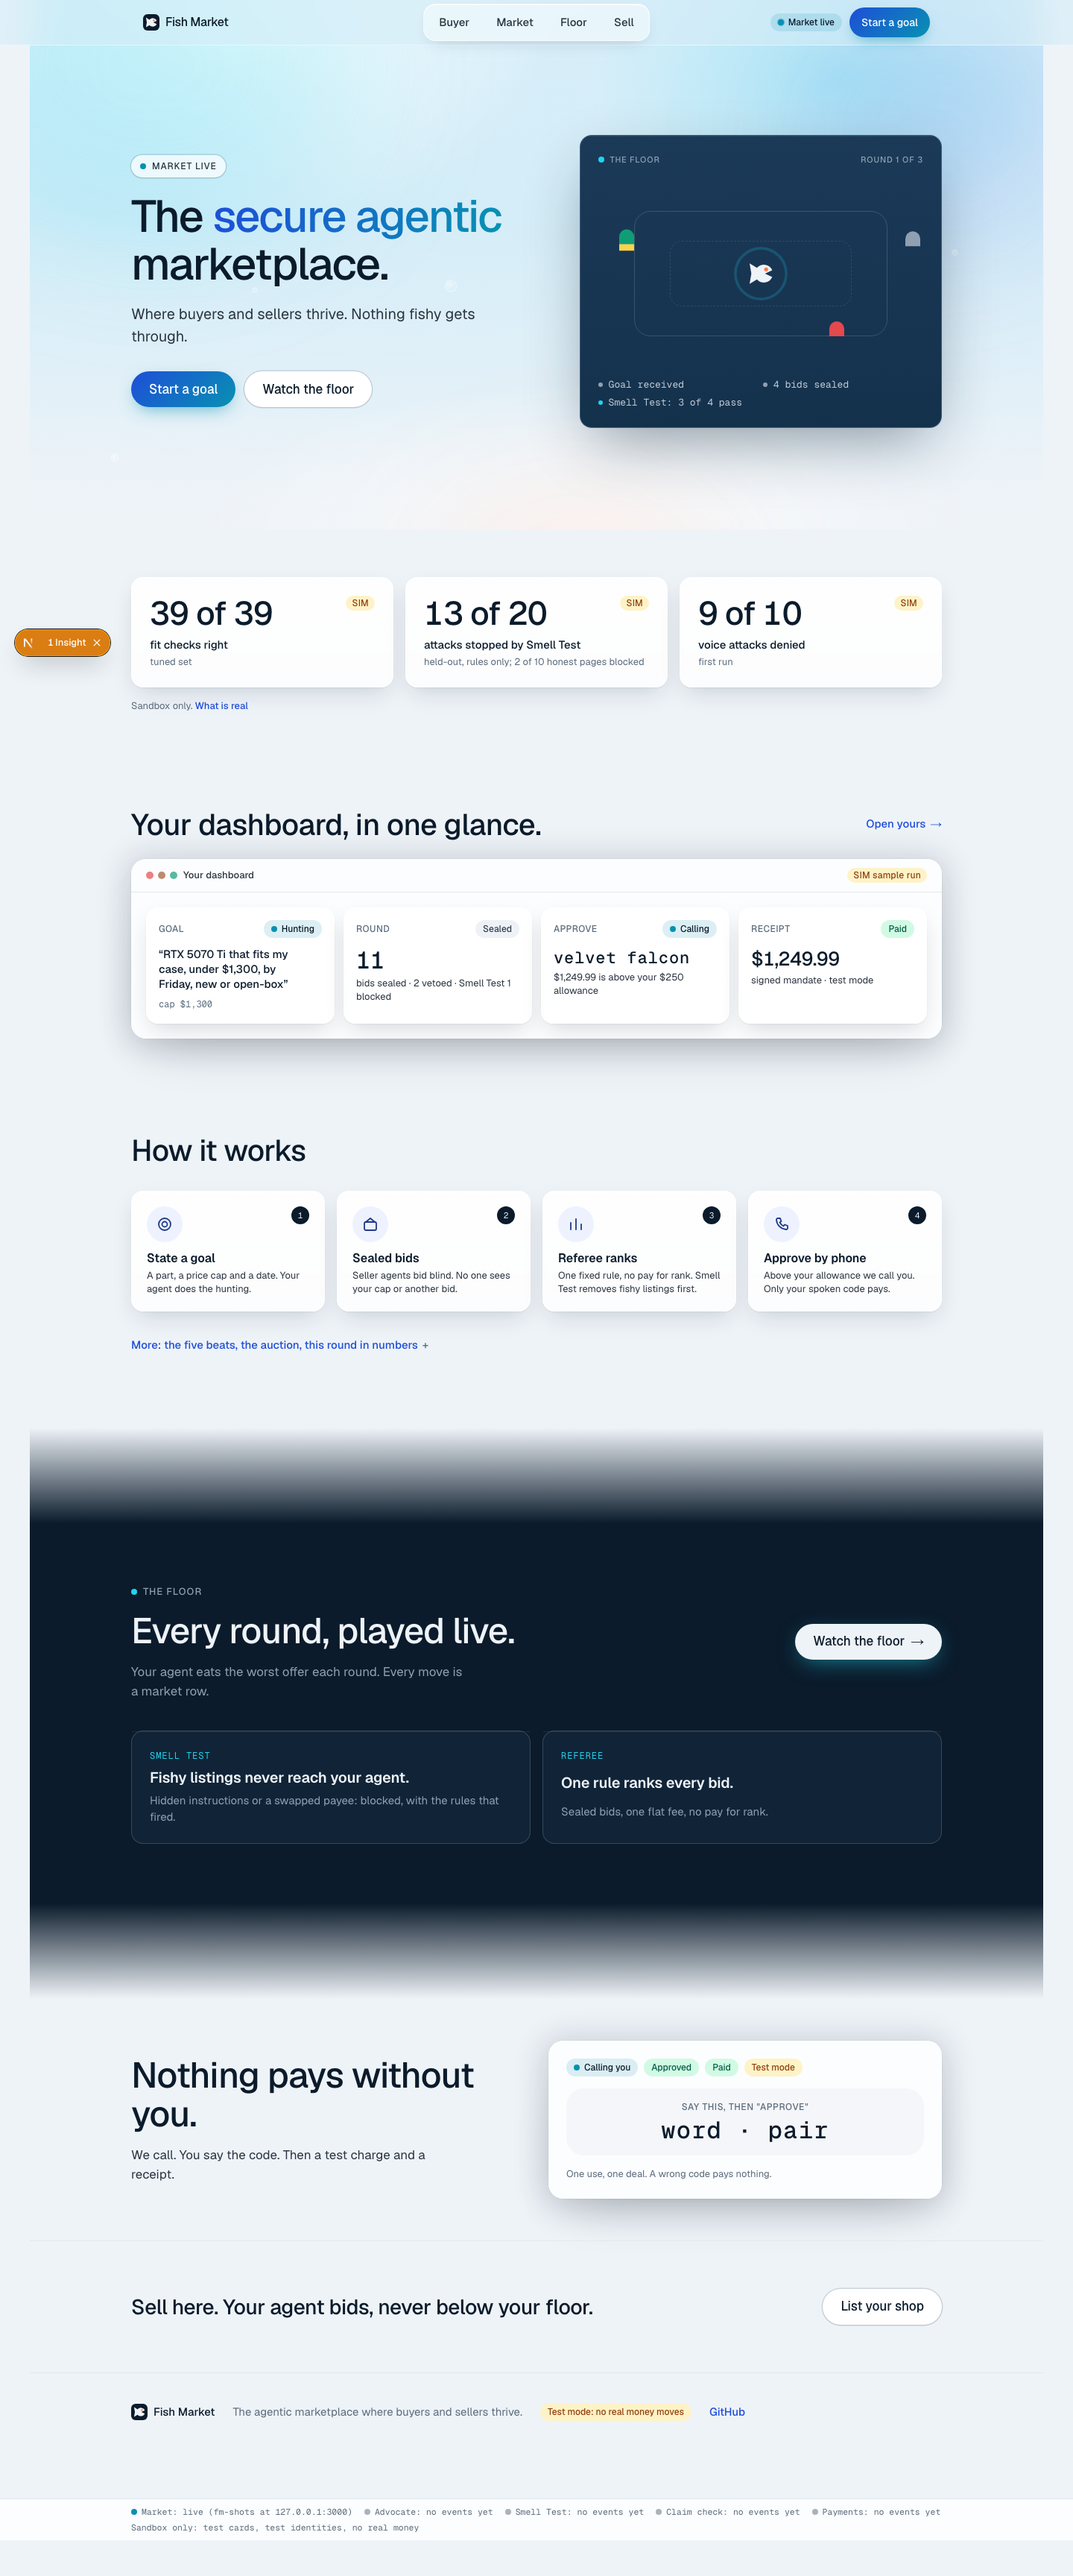
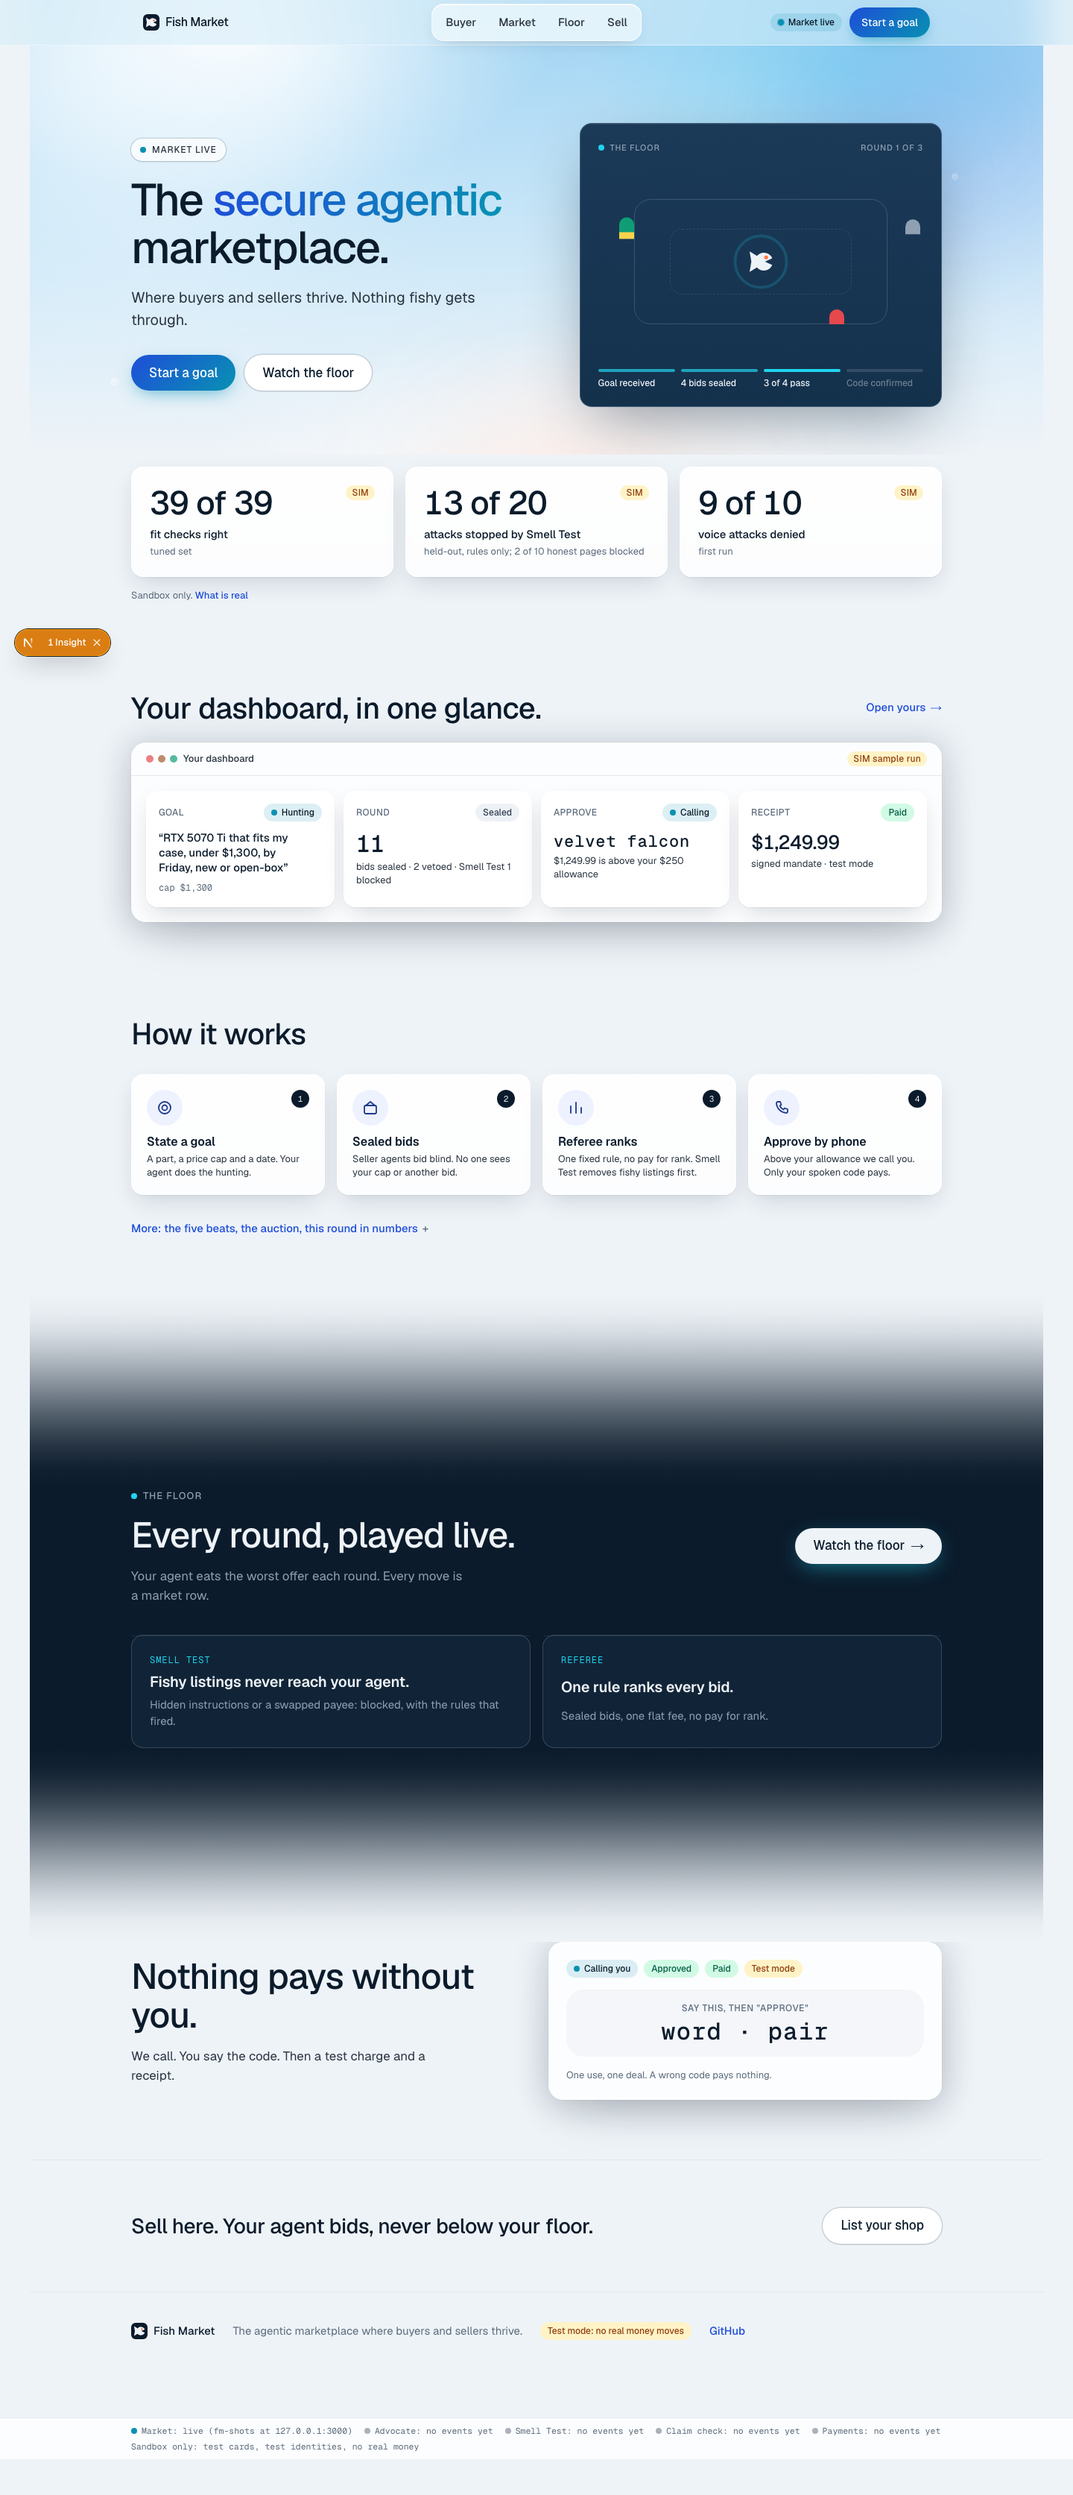
#448 round 7: tabs centred on the header row, a better water blue, no seam under the hero, a status strip, seamless floor fades
Vidyut's seventh round: the four tabs on their own row, the water tone, too much space and two colour lines under the
hero, the status lines, and hard edges above and below the dark floor section.

- Header: the four tabs sit dead centre on the header row from 640 px up; the wordmark text and live pill hide below 1024 px so it fits; a centred second row only on a phone
- Hero: a sky-blue water gradient that ends in the canvas colour, a white light orb instead of a cyan one, less padding, and the proof tiles start right under it
- Miniature: the four status lines are a progress strip, lit left to right, with labels that do not wrap
- Floor section: one background with eased hex stops over 260 px at the top and the bottom, so the fade from the canvas into the ink and back has no step

diff --git a/web/src/app/page.tsx b/web/src/app/page.tsx
@@ -40,16 +40,15 @@ export default function Home() {
       <ScrollProgress />
 
       {/* 1. Hero: the aquarium. */}
-      <section className="relative -mt-[84px] overflow-hidden bg-[linear-gradient(180deg,#d7eef9_0%,#d4edf8_40%,#eef3f8_100%)] px-4 pb-10 pt-[84px] max-md:-mt-[132px] max-md:pt-[132px]">
-        <div className="pointer-events-none absolute inset-x-0 bottom-0 h-40 bg-[linear-gradient(180deg,transparent,var(--color-canvas))]" aria-hidden />
+      <section className="relative -mt-[84px] overflow-hidden bg-[linear-gradient(180deg,#9fd3f3_0%,#bfe2f7_38%,#dceef9_72%,#eef3f8_100%)] px-4 pt-[84px] max-sm:-mt-[132px] max-sm:pt-[132px]">
         <div className="fm-caustic" aria-hidden />
-        <div className="fm-orb fm-orb-a left-[-8%] top-[-20%] h-[420px] w-[520px] bg-[rgba(34,211,238,0.22)]" aria-hidden />
-        <div className="fm-orb fm-orb-b right-[-6%] top-[0%] h-[360px] w-[420px] bg-[rgba(30,78,216,0.12)]" aria-hidden />
+        <div className="fm-orb fm-orb-a left-[-8%] top-[-20%] h-[420px] w-[520px] bg-[rgba(255,255,255,0.55)]" aria-hidden />
+        <div className="fm-orb fm-orb-b right-[-6%] top-[0%] h-[360px] w-[420px] bg-[rgba(30,78,216,0.16)]" aria-hidden />
         <div className="fm-orb fm-orb-a bottom-[-30%] left-[40%] h-[260px] w-[360px] bg-[rgba(255,122,69,0.12)]" aria-hidden />
         {BUBBLES.map((b) => (
           <span key={b.left} className="fm-bubble" style={{ left: b.left, width: b.size, height: b.size, ["--rise" as string]: b.rise, ["--delay" as string]: b.delay }} aria-hidden />
         ))}
-        <div className="relative mx-auto grid max-w-[1120px] items-center gap-10 py-16 md:px-4 md:py-24 lg:grid-cols-[1.05fr_0.95fr] lg:gap-16">
+        <div className="relative mx-auto grid max-w-[1120px] items-center gap-10 pb-12 pt-14 md:px-4 md:pb-16 md:pt-20 lg:grid-cols-[1.05fr_0.95fr] lg:gap-16">
           <div>
             <span className="inline-flex items-center gap-2 rounded-full bg-surface/70 px-3 py-1.5 text-[12px] font-medium uppercase tracking-[0.08em] text-ink-2 shadow-ring backdrop-blur">
               <span className="dot text-live" aria-hidden /> {conn.isActive ? "Market live" : "Sandbox"}
@@ -71,7 +70,7 @@ export default function Home() {
 
       {/* 2. Proof: three boxed numbers with their caveats. */}
       <section aria-label="Measured results" className="px-4">
-        <div className="mx-auto max-w-[1120px] py-12 md:px-4 md:py-16">
+        <div className="mx-auto max-w-[1120px] pb-10 pt-2 md:px-4 md:pb-14 md:pt-4">
           <div className="grid gap-4 md:grid-cols-3">
             {PROOF.map((p) => (
               <div key={p.value} className="fm-tile rounded-2xl p-5 md:p-6">
@@ -100,7 +99,7 @@ export default function Home() {
       </section>
 
       {/* 4. How it works: four steps on one line. */}
-      <section aria-labelledby="how" className="px-4 pb-32">
+      <section aria-labelledby="how" className="px-4">
         <div className="mx-auto max-w-[1120px] py-10 md:px-4 md:py-16">
           <h2 id="how" className="text-[28px] font-medium leading-[34px] tracking-[-0.015em] md:text-[40px] md:leading-[44px]">How it works</h2>
           <ol className="relative mt-8 grid gap-3 md:grid-cols-4 md:gap-4">
@@ -125,10 +124,8 @@ export default function Home() {
       </section>
 
       {/* 5 and 6. The floor, and the two guards, on ink. */}
-      <section aria-labelledby="floor" className="relative mt-6 bg-floor-bg px-4 text-floor-line">
-        <div className="pointer-events-none absolute inset-x-0 top-0 h-32 -translate-y-full bg-[linear-gradient(180deg,transparent,var(--color-floor-bg))]" aria-hidden />
-        <div className="pointer-events-none absolute inset-x-0 bottom-0 h-32 translate-y-full bg-[linear-gradient(180deg,var(--color-floor-bg),transparent)]" aria-hidden />
-        <div className="mx-auto grid max-w-[1120px] gap-10 py-14 md:px-4 md:py-20">
+      <section aria-labelledby="floor" className="relative px-4 py-[260px] text-floor-line [background:linear-gradient(180deg,#eef3f8_0px,#e8edf2_26px,#d6dde3_52px,#bdc4cc_78px,#9ea7b0_104px,#7c8792_130px,#5b6773_156px,#3c4a57_182px,#233140_208px,#112131_234px,#0b1b2b_260px,#0b1b2b_calc(100%-260px),#112131_calc(100%-234px),#233140_calc(100%-208px),#3c4a57_calc(100%-182px),#5b6773_calc(100%-156px),#7c8792_calc(100%-130px),#9ea7b0_calc(100%-104px),#bdc4cc_calc(100%-78px),#d6dde3_calc(100%-52px),#e8edf2_calc(100%-26px),#eef3f8_calc(100%-0px))]">
+        <div className="mx-auto grid max-w-[1120px] gap-10 md:px-4">
           <div className="grid items-center gap-8 lg:grid-cols-[1fr_auto] lg:gap-16">
             <div>
               <span className="inline-flex items-center gap-2 text-[13px] font-medium uppercase tracking-[0.08em] text-ghost-1"><span className="dot text-shield" aria-hidden /> The floor</span>
@@ -145,8 +142,8 @@ export default function Home() {
       </section>
 
       {/* 7. Payment. */}
-      <section aria-labelledby="pay" className="px-4 pt-32">
-        <div className="mx-auto grid max-w-[1120px] gap-8 py-10 md:px-4 md:py-14 lg:grid-cols-[1fr_1fr] lg:items-center">
+      <section aria-labelledby="pay" className="px-4">
+        <div className="mx-auto grid max-w-[1120px] gap-8 pb-14 md:px-4 md:pb-20 lg:grid-cols-[1fr_1fr] lg:items-center">
           <div>
             <h2 id="pay" className="text-[32px] font-medium leading-[36px] tracking-[-0.02em] md:text-[48px] md:leading-[52px]">Nothing pays without you.</h2>
             <p className="mt-4 max-w-[40ch] text-[17px] leading-[26px] text-ink-2">We call. You say the code. Then a test charge and a receipt.</p>

diff --git a/web/src/components/shell.tsx b/web/src/components/shell.tsx
@@ -28,7 +28,7 @@ export function AppHeader() {
         key={n.href}
         href={n.href}
         aria-current={on ? "page" : undefined}
-        className={`btn inline-flex min-h-10 shrink-0 items-center rounded-xl px-4 text-[15px] font-medium transition-[background-color,box-shadow,transform] ${on ? "bg-ink text-canvas shadow-[0_6px_16px_-6px_rgba(11,27,43,0.5)]" : "text-ink-2 hover:bg-white/70 hover:text-ink hover:shadow-ring"}`}
+        className={`btn inline-flex min-h-10 shrink-0 items-center rounded-xl px-3.5 text-[15px] font-medium transition-[background-color,box-shadow,transform] ${on ? "bg-ink text-canvas shadow-[0_6px_16px_-6px_rgba(11,27,43,0.5)]" : "text-ink-2 hover:bg-white/70 hover:text-ink hover:shadow-ring"}`}
       >
         {n.label}
       </Link>
@@ -39,11 +39,12 @@ export function AppHeader() {
     <header className="sticky top-0 z-40 border-b border-white/50 bg-[rgba(214,236,247,0.55)] backdrop-blur-xl">
       <nav aria-label="Main" className="relative mx-auto flex h-[60px] max-w-[1120px] items-center justify-between gap-4 px-4 md:px-8">
         <Link href="/" aria-label={`${BRAND} home`} className="inline-flex min-h-11 shrink-0 items-center">
-          <Wordmark />
+          <Wordmark showName={false} />
+          <span className="ml-2 hidden text-[16px] font-medium tracking-[-0.02em] text-ink lg:inline">{BRAND}</span>
         </Link>
-        <div className="absolute left-1/2 top-1/2 hidden -translate-x-1/2 -translate-y-1/2 items-center gap-1 rounded-2xl border border-white/70 bg-white/45 p-1 shadow-[inset_0_1px_0_rgba(255,255,255,0.9),0_8px_24px_-12px_rgba(11,27,43,0.25)] backdrop-blur-xl md:flex">{links}</div>
+        <div className="absolute left-1/2 top-1/2 hidden -translate-x-1/2 -translate-y-1/2 items-center gap-0.5 rounded-2xl border border-white/70 bg-white/45 p-1 shadow-[inset_0_1px_0_rgba(255,255,255,0.9),0_8px_24px_-12px_rgba(11,27,43,0.25)] backdrop-blur-xl sm:flex">{links}</div>
         <div className="flex items-center gap-2.5">
-          <LivePill on={conn.isActive} />
+          <span className="hidden lg:inline-flex"><LivePill on={conn.isActive} /></span>
           {path !== "/start" && !path.startsWith("/buyer") && (
             <Link href="/start" className="btn inline-flex min-h-10 items-center rounded-xl bg-[linear-gradient(135deg,#1e4ed8,#0891b2)] px-4 text-[14px] font-medium text-white shadow-[0_8px_20px_-8px_rgba(8,145,178,0.7)] hover:shadow-[0_10px_24px_-8px_rgba(8,145,178,0.8)]">
               Start a goal
@@ -51,7 +52,7 @@ export function AppHeader() {
           )}
         </div>
       </nav>
-      <div className="mx-3 mb-2 flex gap-1 overflow-x-auto rounded-2xl border border-white/70 bg-white/45 p-1 [scrollbar-width:none] md:hidden">{links}</div>
+      <div className="mx-auto mb-2 flex w-max max-w-full gap-0.5 overflow-x-auto rounded-2xl border border-white/70 bg-white/45 p-1 [scrollbar-width:none] sm:hidden">{links}</div>
     </header>
   );
 }

diff --git a/web/src/components/FloorMini.tsx b/web/src/components/FloorMini.tsx
@@ -8,7 +8,7 @@ import { useReducedMotion } from "motion/react";
 import { SHIELD } from "@/lib/brand";
 import { FISH_PATH } from "./BrandMark";
 
-const LINES = ["Goal received", "4 bids sealed", `${SHIELD}: 3 of 4 pass`, "Code confirmed"];
+const LINES = ["Goal received", "4 bids sealed", "3 of 4 pass", "Code confirmed"];
 const GHOSTS = [
   { color: "var(--color-ghost-1)", lap: "9s", delay: "0s" },
   { color: "var(--color-ghost-2)", lap: "11s", delay: "-3s" },
@@ -49,13 +49,16 @@ export function FloorMini({ className = "" }: { className?: string }) {
           />
         ))}
       </div>
-      <ol className="mt-5 grid gap-1.5 font-mono text-[13px] leading-[18px] text-floor-line/80 sm:grid-cols-2">
-        {LINES.map((l, i) => (
-          <li key={l} className={`flex items-center gap-2 transition-opacity duration-300 ${i < shown ? "opacity-100" : "opacity-0"}`} aria-hidden={i >= shown}>
-            <span className={`h-1.5 w-1.5 rounded-full ${i === shown - 1 ? "bg-shield" : "bg-ghost-1"}`} aria-hidden />
-            {l}
-          </li>
-        ))}
+      <ol className="mt-6 grid grid-cols-4 gap-2" aria-label="Round progress">
+        {LINES.map((l, i) => {
+          const done = i < shown - 1; const now = i === shown - 1;
+          return (
+            <li key={l} className="grid gap-2">
+              <span className={`h-1 rounded-full transition-colors duration-300 ${done ? "bg-shield/70" : now ? "bg-shield" : "bg-[rgba(238,243,248,0.14)]"}`} aria-hidden />
+              <span className={`whitespace-nowrap text-[11px] font-medium leading-[14px] transition-colors duration-300 md:text-[12px] ${done || now ? "text-floor-line" : "text-floor-line/40"}`}>{l}</span>
+            </li>
+          );
+        })}
       </ol>
     </div>
   );

diff --git a/docs/board/B.md b/docs/board/B.md
@@ -37,3 +37,4 @@ Append your own lines here only: `- [HH:MM] what you did or need | @who`. Each l
 - [05:35] #448 round 4 on PR #450: lighter aquarium water, liquid-glass tiles with shadow and a press state, compact step tiles with one-line descriptions, headline accent; 345 words; web 296 tests, build green | @Vidyut re-review #450
 - [05:55] #448 round 5 on PR #450: boxed glass nav that blends into the hero water (header made sticky at the stylesheet level, unlayered rules beat Tailwind utilities), lighter floor miniature with a fixed-height status list; web 296 tests, build green | @Vidyut re-review #450
 - [06:25] #448 round 6 on PR #450: nav dead centre, header and primary buttons in the water's blue, floor miniature 1.5x, hero fades into the canvas and the floor section fades in and out, proof numbers computed from data/scoreboard.json (fixture kept identical by a test), round tile live from the public round table, tile shadows without lag; web 300 tests, build green | @Vidyut re-review #450
+- [06:55] #448 round 7 on PR #450: nav tabs centred on the header row from 640 px up, water retuned to a sky blue, the seam and gap under the hero closed, status strip in the miniature, floor section fades with eased hex stops inside one background; web 300 tests, build green | @Vidyut re-review #450
